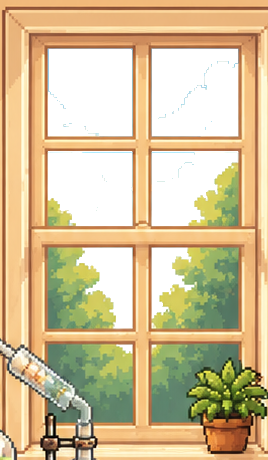
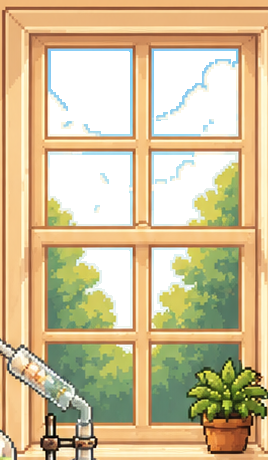
fix(weather): pull the sky holes in, and take the window out of the classroom
THE LINE ON THE CURTAIN. Not a leak in the cut -- a resampling artefact.
The cut is a ~350px PNG drawn at about half that on a phone, and downscaling
an alpha edge feathers it: output pixels straddling the boundary come out
part-transparent, so a hairline of sky bleeds onto the frame beside every
hole. Diffing a room rendered with weather against the same room without it
showed exactly that -- a one-pixel white thread tracing the boundary. Along a
mullion nobody would notice; the living room's curtain meets the glass on one
long diagonal, so there it read as a line drawn down the fabric.

Every hole is now eroded by 2px, which puts the feathering back over pixels
that were sky anyway. Safe by construction: no transparent pixel touches the
crop border, so nothing can be pulled off the edge. The same diff afterwards
is clean.

(The erosion happens after the day/night intersection but the UN-eroded mask
is what the night pass intersects against, or the margin would be taken twice
and the night holes would close up.)

THE CLASSROOM. Removed from the machine at the user's request -- the Serbian
lesson does not want a sky. Its cut is deleted and it is out of WEATHER_ROOMS,
so the picker is seven windows now.

diff --git a/src/lib/roomWindows.ts b/src/lib/roomWindows.ts
@@ -73,13 +73,6 @@ export const ROOM_WINDOWS: Record<string, RoomWindow> = {
     day: '/weather/talk.png',
     night: '/weather/talk_night.png',
   },
-  school: {
-    label: 'SCHOOL',
-    art: { w: 768, h: 1376 },
-    box: { l: 0.6836, t: 0.1919, w: 0.306, h: 0.3023 },
-    day: '/weather/school.png',
-    night: '/weather/school.png',
-  },
 }
 
 /** Every room the weather machine can set, in swipe order. */

diff --git a/scripts/build_window_frames.py b/scripts/build_window_frames.py
@@ -51,6 +51,16 @@ room from the same camera, the daylight cut, where colour separation is easy,
 is the authority on where the glass IS, and the night pass only ever narrows
 it.
 
+Finally the transparent region is ERODED by `erode` pixels. The cut is a
+348-or-so pixel PNG drawn at about half that on a phone, and downscaling an
+alpha edge feathers it -- output pixels straddling the boundary come out
+part-transparent, so a hairline of sky bleeds onto the frame beside every
+hole. Along a short mullion nobody notices; along the living room's curtain,
+which meets the glass on one long diagonal, it reads as a line drawn down the
+fabric. Pulling the hole in by two pixels puts the feathering back over
+pixels that were sky anyway. Safe by construction, because no transparent
+pixel touches the crop border.
+
 Bias: when in doubt KEEP the pixel. A pixel wrongly kept hides a raindrop
 nobody was looking at; a pixel wrongly dropped puts weather on the wallpaper.
 
@@ -112,6 +122,7 @@ def cut(room, spec, outdir, shots, art=None, suffix='', only=None):
     key_drop = spec.get('keyDrop', 55)
     cool_min = spec.get('coolMin')
     green_guard = spec.get('greenGuard', 10)
+    erode = spec.get('erode', 2)
     night = spec.get('night', False)
 
     # Painted-in walls the flood may not enter, in fractions of this crop.
@@ -165,11 +176,32 @@ def cut(room, spec, outdir, shots, art=None, suffix='', only=None):
             seed_of[(nx, ny)] = seed
             q.append((nx, ny))
 
+    if only is not None:
+        for x in range(cw):
+            for y in range(ch):
+                if not only[x][y]:
+                    sky[x][y] = False
+
+    # What the flood decided, before the safety margin. The night pass is
+    # intersected against THIS, not against the eroded copy, or the margin
+    # would be taken twice and the night holes would close up.
+    found = sky
+
+    # Pull every hole in, so the resampled alpha edge lands on former sky.
+    for _ in range(erode):
+        shrunk = [[False] * ch for _ in range(cw)]
+        for x in range(cw):
+            for y in range(ch):
+                if not sky[x][y]:
+                    continue
+                if all(0 <= x + dx < cw and 0 <= y + dy < ch and sky[x + dx][y + dy]
+                       for dx in (-1, 0, 1) for dy in (-1, 0, 1)):
+                    shrunk[x][y] = True
+        sky = shrunk
+
     n = 0
     for x in range(cw):
         for y in range(ch):
-            if only is not None and not only[x][y]:
-                sky[x][y] = False
             if sky[x][y]:
                 r, g, b, _ = px[x, y]
                 px[x, y] = (r, g, b, 0)
@@ -188,9 +220,9 @@ def cut(room, spec, outdir, shots, art=None, suffix='', only=None):
     pct = 100.0 * n / (cw * ch)
     print(f'{room + suffix:16s} box={cw}x{ch} sky={pct:5.1f}% '
           f'tol={tol} seedTol={seed_tol} keyDrop={key_drop} coolMin={cool_min} '
-          f'green={green_guard} night={night} keep={len(spec.get("keep", []))} '
-          f'-> {room}{suffix}.png')
-    return pct, (cw, ch), im.size, sky
+          f'green={green_guard} erode={erode} night={night} '
+          f'keep={len(spec.get("keep", []))} -> {room}{suffix}.png')
+    return pct, (cw, ch), im.size, found
 
 
 def main():
